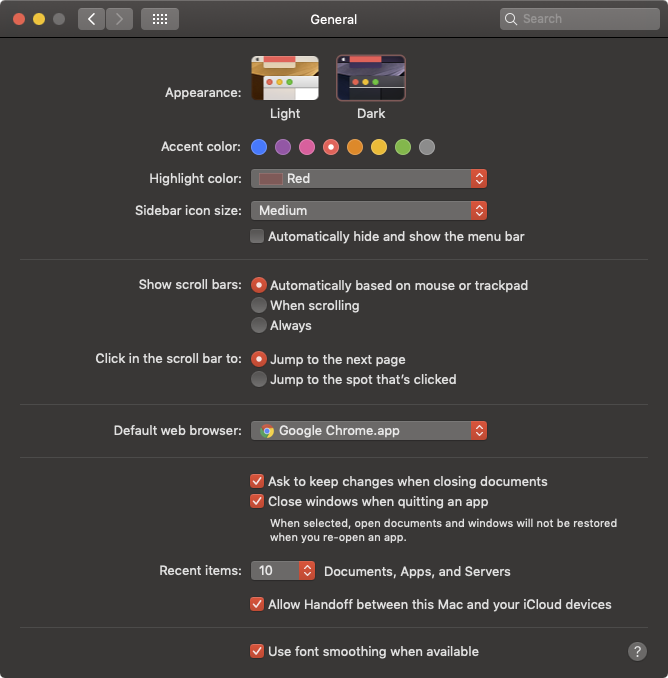
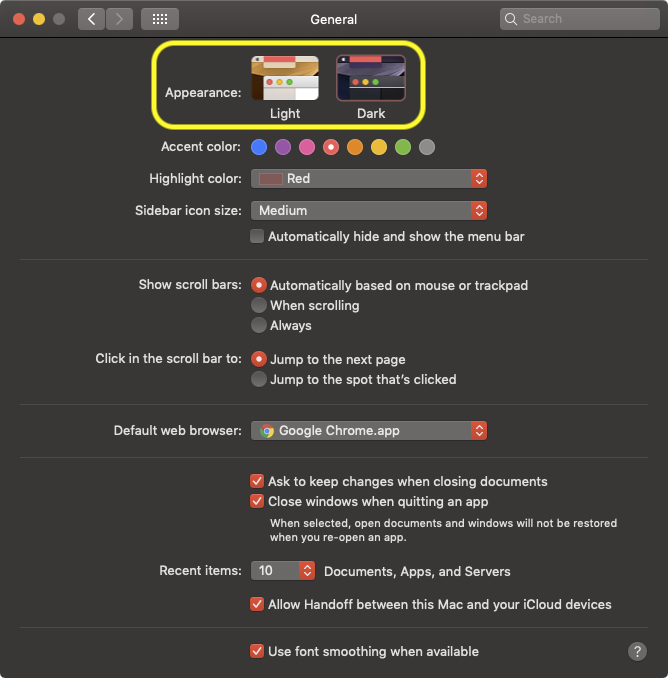
Write up how to use section

Changed region(s): [[0.2096, 0.0619, 0.6587, 0.2168]]

diff --git a/src/site/content/en/blog/prefers-color-scheme/index.md b/src/site/content/en/blog/prefers-color-scheme/index.md
@@ -1,6 +1,6 @@
 ---
 title: Hello Darkness, My Old Friend
-subhead: Dark Theme is Here
+subhead: Dark theme is here
 authors:
   - thomassteiner
 date: 2019-05-23
@@ -23,8 +23,8 @@ tags:
 We have gone full circle with dark mode.
 In the dawn of personal computing, dark mode wasn't a deliberate choice,
 but purely a matter of fact:
-Monochrome Cathod-Ray Tube (CRT) computer monitors work by firing electron beams
-on a phosphorescent screen, and as the phospor that these early CRTs used was green,
+Monochrome Cathode-Ray Tube (CRT) computer monitors work by firing electron beams
+on a phosphorescent screen, and as the phosphor that these early CRTs used was green,
 they were oftentimes referred to as
 [green screens](https://commons.wikimedia.org/wiki/File:Schneider_CPC6128_with_green_monitor_GT65,_start_screen.jpg).
 Information like text was displayed in green, and the rest of the screen was black.
@@ -118,7 +118,7 @@ through features like iOS' [Night Shift](https://support.apple.com/en-us/HT20757
 [Night Light](https://support.google.com/pixelphone/answer/7169926?) can help,
 as well as avoiding bright lights or irregular lights in general through dark themes or dark modes.
 
-## Supporting Dark Mode
+## Activating Dark Mode in the Operation System
 
 Now that I have covered the background of why dark mode is such a big thing,
 let me go into detail how you can support it.
@@ -132,27 +132,29 @@ For Android&nbsp;Q, you can find it under *Display* as a *Dark Theme* toggle swi
 <div style="overflow-x: auto">
   <table class="w-screenshot w-screenshot--filled">
     <tr>
-      <td style="vertical-align:bottom;">
+      <td style="vertical-align:top;">
         <figure class="w-figure w-figure--inline-left">
-          <img src="windows10.png" alt="Windows 10 dark theme settings" intrinsicsize="1812x1513">
+          <img style="height:250px; width:auto;" src="windows10.png" alt="Windows 10 dark theme settings" intrinsicsize="838x700">
           <figcaption class="w-figcaption">Fig. 4 — Windows&nbsp;10 dark theme settings</figcaption>
         </figure>
       </td>
-      <td style="vertical-align:bottom;">
+      <td style="vertical-align:top;">
         <figure class="w-figure w-figure--inline-left">
-          <img src="macosx.png" alt="macOS X dark mode settings" intrinsicsize="668x678">
+          <img style="height:250px; width:auto;" src="macosx.png" alt="macOS X dark mode settings" intrinsicsize="668x678">
           <figcaption class="w-figcaption">Fig. 5 — macOS&nbsp;X dark mode settings</figcaption>
         </figure>
       </td>
-      <td style="vertical-align:bottom;">
+      <td style="vertical-align:top;">
         <figure class="w-figure w-figure--inline-left">
-          <img src="android.png" alt="Android Q dark mode settings" intrinsicsize="1080x1920">
+          <img style="height:250px; width:auto;" src="android.png" alt="Android Q dark mode settings" intrinsicsize="610x700">
           <figcaption class="w-figcaption">Fig. 6 — Android&nbsp;Q dark theme settings</figcaption>
         </figure>
       </td>
     </tr>
   </table>
 </div>
+
+## The `prefers-color-scheme` Media Query
 
 [Media Queries](https://developer.mozilla.org/en-US/docs/Web/CSS/Media_Queries/Using_media_queries)
 allow authors to test and query values or features of the user agent or display device,
@@ -186,20 +188,48 @@ It takes the following values:
   Indicates that the user has notified the system that they prefer a page that has a dark theme
   (light text on dark background).
 
-So with that out of the way, let's finally see how this looks in practice.
+## Supporting Dark Mode
+
+Let's finally see how supporting dark mode looks in practice.
+To optimize load speed, I have split my CSS into three parts:
+
+- `style.css` that contains generic styles that are used universally on the site.
+- `dark.css` that contains only the rules needed for dark mode.
+- `light.css` that contains only the rules needed for light mode.
+
+The two latter ones are loaded conditionally with a `<link media>` query.
+Not all browsers will support this media query quite yet,
+which I counter by loading the default `light.css` file via `document.write`
+in a minuscule inline script.
 
 ```html
 <!-- index.html -->
-<link rel="stylesheet" href="/style.css">
-<link rel="stylesheet" href="/dark.css" media="(prefers-color-scheme: dark)">
-<link rel="stylesheet" href="/light.css" media="(prefers-color-scheme: no-preference), (prefers-color-scheme: light)">
 <script>
-  // If `prefers-color-scheme` is not supported, fall back to light mode
+  // If `prefers-color-scheme` is not supported, fall back to light mode.
+  // In this case, the file will be downloaded with `highest` priority.
   if (!window.matchMedia('(prefers-color-scheme)').matches) {
     document.write('<link rel="stylesheet" href="/light.css"">');
   }
 </script>
+<!-- The main stylesheet -->
+<link rel="stylesheet" href="/style.css">
+<!--
+  Conditionally either load the light or the dark stylesheet. The matching file
+  will be downloaded with `highest`, the non-matching file with `lowest`
+  priority. If the browser doesn't support `prefers-color-scheme`, the media
+  query is unknown and the files are downloaded with `lowest` priority (but
+  above I force `highest` for the default experience).
+-->
+<link rel="stylesheet" href="/dark.css" media="(prefers-color-scheme: dark)">
+<link rel="stylesheet" href="/light.css" media="(prefers-color-scheme: no-preference), (prefers-color-scheme: light)">
 ```
+
+I make maximum use of [CSS variables](https://developer.mozilla.org/en-US/docs/Web/CSS/var),
+this allows my generic `style.css` to be, well, generic,
+and all the customization happens in the two other files `dark.css` and `light.css`.
+Below you can see an excerpt of the actual styles, but it should suffice to convey the overall idea.
+I declare two variables, `--background-color` and `--color`
+that essentially create a *dark-on-light* and a *light-on-dark* baseline theme.
 
 ```css
 /* light.css */
@@ -217,10 +247,23 @@ So with that out of the way, let's finally see how this looks in practice.
 }
 ```
 
+In my `style.css`, I then use these variables in the `body { … }` rule.
+You will also have noticed a property `color-scheme` with the space-separated value `light dark`.
+
+{% Aside 'note' %}
+  Read up more on
+  [what `color-scheme` actually does](https://medium.com/dev-channel/what-does-dark-modes-supported-color-schemes-actually-do-69c2eacdfa1d).
+{% endAside %}
+
+This tells the browser which color themes my app supports,
+and allows it to activate special variants of the User Agent stylesheet.
+This is useful to, for example, let the browser render form fields
+with a dark background and light text, or to enable a theme-aware highlight color.
+
 ```css
 /* style.css */
 :root {
-  supported-color: dark light;
+  color-scheme: dark light;
 }
 
 body {
@@ -229,6 +272,9 @@ body {
 }
 ```
 
+In the following [Glitch](https://dark-mode-baseline.glitch.me/) embed,
+you can see a more complete example that puts the concepts from above into practice.
+
 <div style="height: 420px; width: 100%;">
   <iframe
     allow="geolocation; microphone; camera; midi; vr; encrypted-media"
@@ -236,6 +282,17 @@ body {
     style="height:100%; width:100%; border:0;">
   </iframe>
 </div>
+
+When you play with this example, you can see
+why I load my `dark.css` and `light.css` via media queries.
+Try toggling dark mode and reload the page:
+the particular currently non-matching stylesheets are still loaded, but with lowest priority,
+so that they never compete with resources that are needed by the site right now.
+
+{% Aside 'note' %}
+  Read up more on
+  [why browsers download stylesheets with non-matching media queries](https://blog.tomayac.com/2018/11/08/why-browsers-download-stylesheets-with-non-matching-media-queries-180513).
+{% endAside %}
 
 <figure class="w-figure">
   <img src="light.png" alt="Network loading diagram showing how in light mode the dark mode CSS gets loaded with lowest priority" intrinsicsize="1633x851">
@@ -247,7 +304,87 @@ body {
   <figcaption class="w-figcaption">Fig. 8 — Site in dark mode loads the light mode CSS with lowest priority.</figcaption>
 </figure>
 
+<figure class="w-figure">
+  <img src="unsupported.png" alt="Network loading diagram showing how in default light mode the dark mode CSS gets loaded with lowest priority" intrinsicsize="1633x851">
+  <figcaption class="w-figcaption">Fig. 9 — Site in default light mode on a browser that doesn't support <code>prefers-color-scheme</code> loads the dark mode CSS with lowest priority.</figcaption>
+</figure>
+
 ## Dark Mode Best Practices
+
+### Photographic images
+
+If you compare the two screenshots above, you will notice that not only the core theme has changed
+from *dark-on-light* to *light-on-dark*, but that also the hero image looks slightly different.
+My [research](https://medium.com/dev-channel/re-colorization-for-dark-mode-19e2e17b584b)
+has shown that the majority of the surveyed people
+prefer slightly less vibrant and brilliant images when dark mode is active.
+I refer to this as *re-colorization*.
+Re-colorization can be achieved through a CSS filter on my images.
+I use a CSS selector that matches all images that don't have `.svg` in their URL,
+the idea being that I can give vector graphics (icons) a different re-colorization treatment
+than my images (photos), more about this in the [next paragraph](#vector-graphics-and-icons).
+Note how I again use a [CSS variable](https://developer.mozilla.org/en-US/docs/Web/CSS/var),
+so I can later on flexibly change my filter.
+
+{% Aside 'note' %}
+  Read up more on
+  [user research regarding re-colorization preferences with dark mode](https://medium.com/dev-channel/re-colorization-for-dark-mode-19e2e17b584b).
+{% endAside %}
+
+```css
+/* dark.css */
+--image-filter: grayscale(50%);
+
+img:not([src*=".svg"]) {
+  filter: var(--image-filter);
+}
+```
+
+Not everyone is the same and people have different dark mode needs.
+By sticking to the re-colorization method described above,
+I can easily make the grayscale intensity a user preference that I can change via JavaScript.
+
+```js
+const filter = 'grayscale(70%)';
+document.documentElement.style.setProperty('--image-filter', value);
+```
+
+### Vector graphics and icons
+
+For vector graphics—that in my case are used as icons—I use a different re-colorization method.
+While [research](https://dl.acm.org/citation.cfm?id=2982168) has shown
+that people don't like inversion for photos, it works very well for most icons.
+Again I use CSS variables to determine the inversion amount
+in the regular and in the `:hover` state.
+Note how I only invert icons in `dark.css` but not in `light.css`, and how the `:hover` state
+gets a different inversion intensity in the two cases to make the icon appear
+slightly darker or slightly brighter, dependent on the mode the user has selected.
+
+```css
+/* dark.css */
+--icon-filter: invert(100%);
+--icon-filter_hover: invert(40%);
+
+img[src*=".svg"] {
+  filter: var(--icon-filter);
+}
+```
+
+```css
+/* light.css */
+--icon-filter_hover: invert(60%);
+```
+
+```css
+/* style.css */
+img[src*=".svg"]:hover {
+  filter: var(--icon-filter_hover);
+}
+```
+
+## Conclusions
+
+
 
 ## Related Links
 
@@ -255,10 +392,13 @@ body {
     - [Chrome Platform Status page](https://chromestatus.com/feature/5109758977638400)
     - [Chromium bug](https://crbug.com/889087)
     - [Media Queries Level&nbsp;5 spec](https://drafts.csswg.org/mediaqueries-5/#prefers-color-scheme)
-- Resources for the `supported-color-schemes` meta tag and CSS property:
+- Resources for the `color-scheme` meta tag and CSS property:
     - [Chrome Platform Status page](https://chromestatus.com/feature/5330651267989504)
     - [Chromium bug](http://crbug.com/925935)
     - [CSS WG GitHub Issue for the meta tag and the CSS property](https://github.com/w3c/csswg-drafts/issues/3299)
     - [HTML WHATWG GitHub Issue for the meta tag](https://github.com/whatwg/html/issues/4504)
 
 ## Acknowledgements
+
+I would like to thank the participants of the various user studies
+that have helped shape the recommendations in this article.
